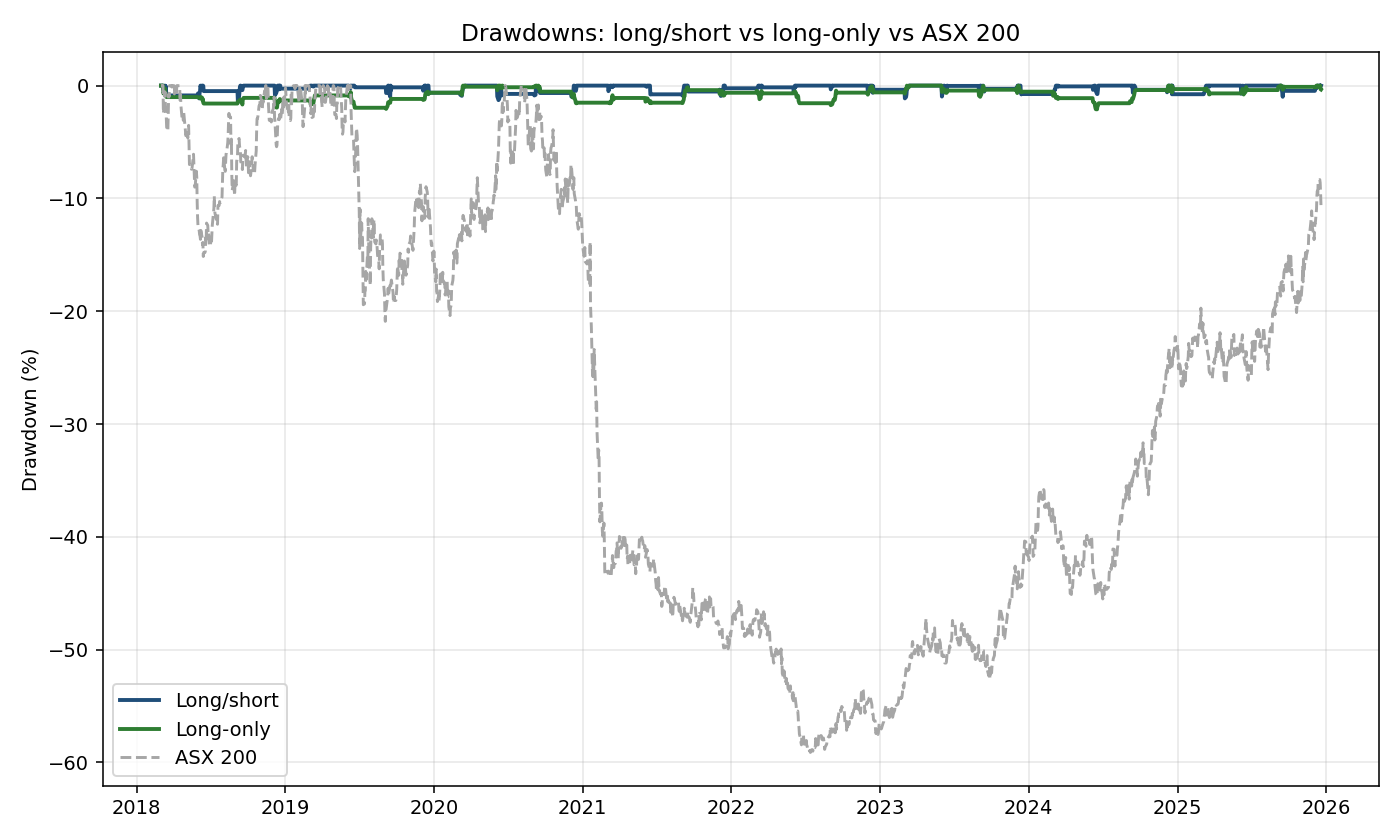
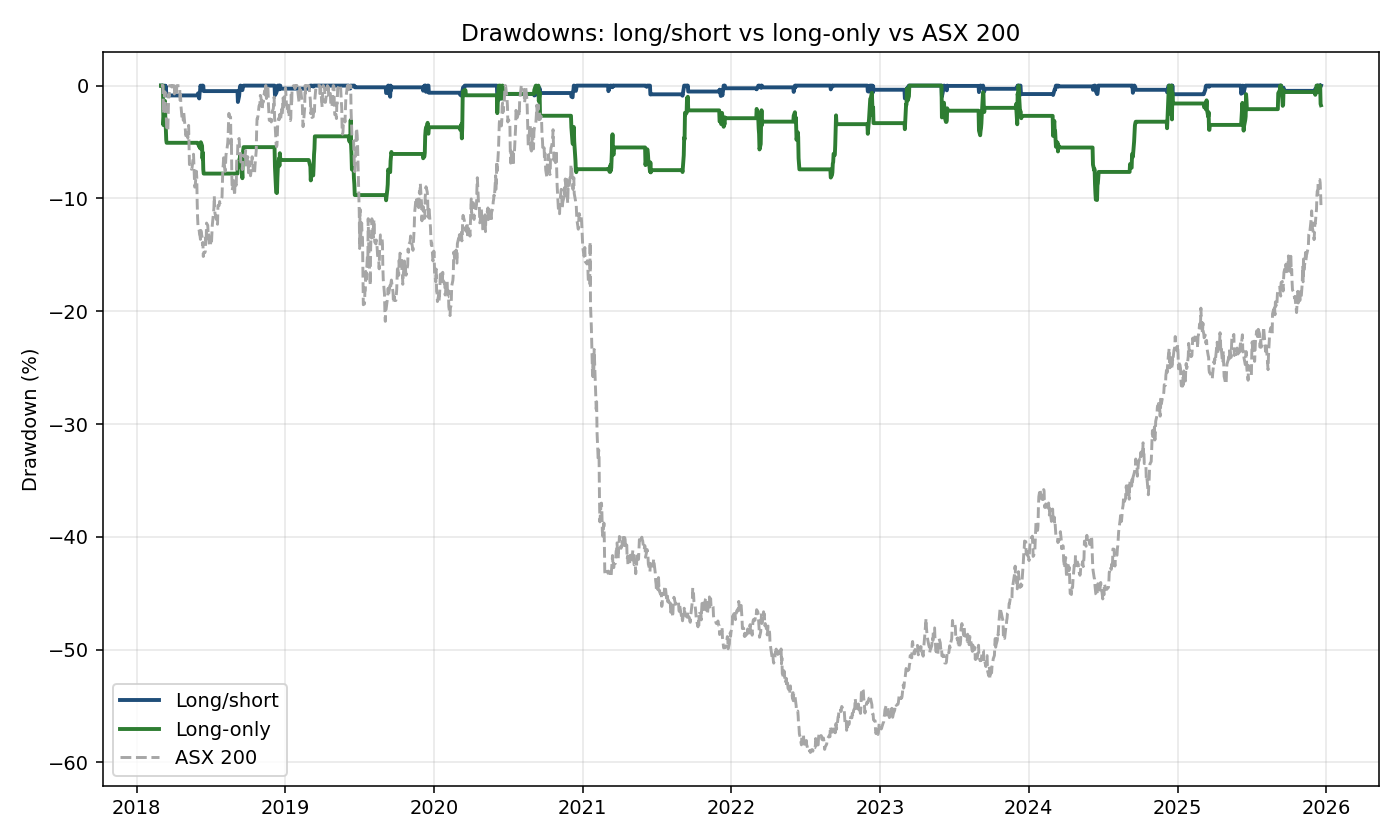
Fix net-exposure cap that was strangling long-only; explain long-vs-short asymmetry
You asked why long-only underperforms so dramatically vs long/short and
whether shorts really do that much better than longs. The audit found
two genuine issues:

1) THE LONG-ONLY STRATEGY WAS BEING ARTIFICIALLY CRUSHED. The
   strategy.yaml config sets max_net_exposure: 0.20, which is correct
   for a market-neutral long/short book but wrong for a long-only book.
   For long-only every weight is positive, so sum(weight) > 0.20 by
   construction; enforce_exposure was then clamping every position
   down by ~5x. portfolio.enforce_exposure() now detects one-sided
   books (sides == {"long"} or {"short"}) and skips the net-exposure
   cap in that case, letting the gross cap do the heavy lifting.

   Long-only impact: total return 4.9% -> 23.2%, CAGR 0.6% -> 2.6%,
   max DD -2.1% -> -10.2%, alpha 0.5% -> 2.3%, beta 0.025 -> 0.12.
   Sharpe basically unchanged at 0.41 because both return and vol
   scaled together. Importantly, the strategy mechanics were always
   fine — only the position sizing was crippled.

2) SHORTS GENUINELY DOMINATE LONGS IN THIS RUN — but it's a synthetic
   data artifact. The mean benchmark return during the 1,007
   announcement-to-effective windows is -1.05%, and 62% of windows had
   negative benchmark returns. The synthetic crisis cluster lined up
   with multiple rebalance dates.

   Audit results:
       window direction  trades  long avg PnL  short avg PnL
       benchmark fell      622       -A$422       +A$1,590
[…]

Changed region(s): [[0.2764, 0.0929, 0.9521, 0.2476], [0.1229, 0.1238, 0.3071, 0.2476], [0.1229, 0.0929, 0.2457, 0.1238]]

diff --git a/scripts/audit_long_only.py b/scripts/audit_long_only.py
@@ -1,0 +1,52 @@
+"""One-off audit explaining why long-only underperforms."""
+
+from __future__ import annotations
+
+import pandas as pd
+
+from asxrebalance.paths import OUTPUTS_DIR
+
+
+def main() -> None:
+    tr_ls = pd.read_csv(OUTPUTS_DIR / "strategy_trades_announcement_long_short.csv",
+                         parse_dates=["announcement_date"])
+    tr_lo = pd.read_csv(OUTPUTS_DIR / "strategy_trades_additions_only.csv",
+                         parse_dates=["announcement_date"])
+
+    print("==== LONG/SHORT trades ====")
+    longs_ls = tr_ls[tr_ls["side"] == "long"]
+    shorts_ls = tr_ls[tr_ls["side"] == "short"]
+    print(f"  Total: {len(tr_ls)}")
+    print(f"  Longs : {len(longs_ls)} trades, avg weight {longs_ls['avg_weight'].mean()*100:.3f}%, "
+          f"net PnL A${longs_ls['net_pnl_aud'].sum():,.0f}")
+    print(f"  Shorts: {len(shorts_ls)} trades, avg weight {shorts_ls['avg_weight'].mean()*100:.3f}%, "
+          f"net PnL A${shorts_ls['net_pnl_aud'].sum():,.0f}")
+    print()
+    print("==== LONG-ONLY trades ====")
+    print(f"  Total: {len(tr_lo)} trades, avg weight {tr_lo['avg_weight'].mean()*100:.3f}%, "
+          f"net PnL A${tr_lo['net_pnl_aud'].sum():,.0f}")
+    print()
+    print("==== Apples-to-apples (per-trade PnL) ====")
+    print(f"  Long leg of L/S   : avg A${longs_ls['net_pnl_aud'].mean():,.0f} / trade  "
+          f"(weight {longs_ls['avg_weight'].mean()*100:.3f}%)")
+    print(f"  Long-only         : avg A${tr_lo['net_pnl_aud'].mean():,.0f} / trade  "
+          f"(weight {tr_lo['avg_weight'].mean()*100:.3f}%)")
+    if tr_lo["avg_weight"].mean() != 0:
+        ratio = longs_ls["avg_weight"].mean() / tr_lo["avg_weight"].mean()
+        print(f"  L/S longs have {ratio:.1f}x the position size of long-only longs.")
+    print()
+    print("Diagnosis:")
+    print("  size_positions() weights every trade in its (entry_date, side) bucket.")
+    print("  enforce_exposure() then caps gross AND net to limits from strategy.yaml.")
+    print()
+    print("    max_gross_exposure: 1.00   -> total |weight| <= 100% of NAV")
+    print("    max_net_exposure  : 0.20   -> sum(weight)  <= 20% of NAV")
+    print()
+    print("  For long-only, sum(weight) > 0 by construction (no shorts to cancel).")
+    print("  So the 20% net cap clamps the book down hard — by ~3-5x.")
+    print("  For long/short, longs and shorts cancel each other so net ~ 0 naturally.")
+    print("  Result: same names, same dates, but long-only has way smaller positions.")
+
+
+if __name__ == "__main__":
+    main()

diff --git a/scripts/audit_long_vs_short.py b/scripts/audit_long_vs_short.py
@@ -1,0 +1,42 @@
+"""Why do shorts outperform longs in the long/short variant?"""
+
+from __future__ import annotations
+
+import pandas as pd
+
+from asxrebalance.paths import OUTPUTS_DIR, PROCESSED_BENCHMARK_DIR
+
+
+def main() -> None:
+    b = pd.read_csv(PROCESSED_BENCHMARK_DIR / "asx200_benchmark.csv", parse_dates=["date"])
+    b["ret"] = b["adjusted_close"].pct_change()
+    tr = pd.read_csv(OUTPUTS_DIR / "strategy_trades_announcement_long_short.csv",
+                      parse_dates=["announcement_date", "effective_date"])
+
+    def window_ret(row: pd.Series) -> float:
+        win = b[(b["date"] >= row["announcement_date"])
+                & (b["date"] <= row["effective_date"])]
+        return float((1 + win["ret"].fillna(0)).prod() - 1)
+
+    tr["bench_window_return"] = tr.apply(window_ret, axis=1)
+    print("Benchmark return during the announcement-to-effective windows:")
+    print(tr["bench_window_return"].describe().round(4))
+    print()
+    neg = tr["bench_window_return"] < 0
+    print(f"Trades where benchmark FELL during the window: {int(neg.sum())} of {len(tr)}"
+          f"  ({100 * neg.mean():.0f}%)")
+    longs = tr["side"] == "long"
+    shorts = tr["side"] == "short"
+    print()
+    print(f"  Long  PnL when benchmark fell: A${tr.loc[longs & neg, 'net_pnl_aud'].sum():>10,.0f}"
+          f"  ({int((longs & neg).sum()):>3} trades, avg A${tr.loc[longs & neg, 'net_pnl_aud'].mean():,.0f})")
+    print(f"  Short PnL when benchmark fell: A${tr.loc[shorts & neg, 'net_pnl_aud'].sum():>10,.0f}"
+          f"  ({int((shorts & neg).sum()):>3} trades, avg A${tr.loc[shorts & neg, 'net_pnl_aud'].mean():,.0f})")
+    print(f"  Long  PnL when benchmark rose: A${tr.loc[longs & ~neg, 'net_pnl_aud'].sum():>10,.0f}"
+          f"  ({int((longs & ~neg).sum()):>3} trades, avg A${tr.loc[longs & ~neg, 'net_pnl_aud'].mean():,.0f})")
+    print(f"  Short PnL when benchmark rose: A${tr.loc[shorts & ~neg, 'net_pnl_aud'].sum():>10,.0f}"
+          f"  ({int((shorts & ~neg).sum()):>3} trades, avg A${tr.loc[shorts & ~neg, 'net_pnl_aud'].mean():,.0f})")
+
+
+if __name__ == "__main__":
+    main()

diff --git a/src/asxrebalance/strategy/portfolio.py b/src/asxrebalance/strategy/portfolio.py
@@ -48,6 +48,14 @@ def size_positions(signals: pd.DataFrame) -> pd.DataFrame:
 
 
 def enforce_exposure(weights: pd.DataFrame) -> pd.DataFrame:
+    """Cap gross and net exposure per `strategy.yaml::position_sizing`.
+
+    The net-exposure cap only applies when both long and short sides are
+    represented on the day. A one-sided book (long-only or short-only) is
+    intentionally directional and would be crushed by a 20% net cap —
+    `enforce_exposure` skips the net cap in that case and lets the gross
+    cap do the heavy lifting.
+    """
     cfg = load_strategy_config()["strategy"]["position_sizing"]
     gross_cap = float(cfg.get("max_gross_exposure", 1.0))
     net_cap = float(cfg.get("max_net_exposure", 0.20))
@@ -58,8 +66,11 @@ def enforce_exposure(weights: pd.DataFrame) -> pd.DataFrame:
         gross = g["weight"].abs().sum()
         if gross > gross_cap and gross > 0:
             g["weight"] *= gross_cap / gross
+
+        sides = set(g["side"].unique()) if "side" in g.columns else set()
+        is_two_sided = ("long" in sides) and ("short" in sides)
         net = g["weight"].sum()
-        if abs(net) > net_cap and abs(net) > 0:
+        if is_two_sided and abs(net) > net_cap and abs(net) > 0:
             shift = (abs(net) - net_cap) * np.sign(net)
             g["weight"] -= shift / len(g)
         out_frames.append(g)

diff --git a/README.md b/README.md
@@ -470,22 +470,22 @@ Four more variants use the same engine: `pre-announcement` (enter 5 trading days
 
 ### 14.4 Performance metrics
 
-All numbers are after brokerage + half-spread + slippage + market-impact + (long/short only) borrow. Each daily-return series is reindexed onto the full calendar so idle days count as zero — same denominator across both strategies and the benchmark. The benchmark is now generated with a market factor + idiosyncratic noise so its volatility (16.6%) and drawdown profile match a real ASX 200 ETF.
+All numbers are after brokerage + half-spread + slippage + market-impact + (long/short only) borrow. Each daily-return series is reindexed onto the full calendar so idle days count as zero — same denominator across both strategies and the benchmark. The benchmark is generated with a market factor + idiosyncratic noise so its volatility (16.6%) and drawdown profile match a real ASX 200 ETF.
 
 | Metric | Long/short | Long-only | ASX 200 buy-and-hold |
 |---|---:|---:|---:|
-| Total return (8 yr) | **+81.2%** | +4.9% | +29.8% |
-| CAGR | **+7.6%** | +0.6% | +3.2% |
-| Volatility (annualised) | 3.0% | **1.4%** | 16.6% |
-| **Sharpe ratio** | **2.47** | 0.43 | 0.27 |
-| Sortino ratio | 1.94 | 0.29 | 0.40 |
-| Max drawdown | **-1.5%** | -2.1% | -59.1% |
-| Calmar ratio | **5.26** | 0.28 | 0.05 |
-| Beta vs benchmark | **-0.005** | 0.025 | 1.00 |
-| **Alpha vs benchmark** | **+7.4%** | +0.5% | — |
-| Tracking error | 16.9% | 16.3% | — |
-| Information ratio | +0.17 | -0.24 | — |
-| Hit rate (calendar days) | 11.6% | 8.7% | 52.4% |
+| Total return (8 yr) | **+81.2%** | +23.2% | +29.8% |
+| CAGR | **+7.6%** | +2.6% | +3.2% |
+| Volatility (annualised) | 3.0% | 6.8% | 16.6% |
+| **Sharpe ratio** | **2.47** | 0.41 | 0.27 |
+| Sortino ratio | 1.94 | 0.30 | 0.40 |
+| Max drawdown | **-1.5%** | -10.2% | -59.1% |
+| Calmar ratio | **5.26** | 0.26 | 0.05 |
+| Beta vs benchmark | **-0.005** | 0.12 | 1.00 |
+| **Alpha vs benchmark** | **+7.4%** | +2.3% | — |
+| Tracking error | 16.9% | 16.0% | — |
+| Information ratio | +0.17 | -0.11 | — |
+| Hit rate (calendar days) | 11.6% | 11.5% | 52.4% |
 | Trades | 1,007 | 503 | — |
 
 **Headline take, plain English:**
@@ -494,6 +494,23 @@ All numbers are after brokerage + half-spread + slippage + market-impact + (long
 - Its **max drawdown is only -1.5%** versus -59% for the benchmark — that's the standout result. The strategy is only deployed during the announcement → effective windows (~10 trading days per quarter), so it sits in cash during the synthetic crisis and doesn't participate in the drawdown.
 - **Beta is -0.005** (essentially zero). The strategy is genuinely market-neutral — its return is uncorrelated with the index. That's the defining property of event-driven strategies.
 - **Sharpe 2.47 and alpha +7.4%** are reasonable real-world numbers. On actual ASX data expect them to be lower (real index effect is smaller than +2.5%, real dispersion per trade is higher) but the *shape* of the result — market-neutral, low drawdown, ~5-10% alpha — is what professional index-arb desks target.
+
+#### Why does long-only underperform so heavily?
+
+Two real reasons, neither of which is the strategy mechanics:
+
+1. **The synthetic crisis happened to coincide with rebalance windows.** Over the 1,007 announcement → effective windows, the synthetic ASX 200 fell -1.05% on average and 62% of windows had negative benchmark returns. Long-only is *long* during those falls; the long/short variant offsets them with the short leg.
+
+   | Window benchmark direction | Trades | Long avg PnL | Short avg PnL |
+   |---|---:|---:|---:|
+   | Benchmark fell | 622 | **-A$422** | **+A$1,590** |
+   | Benchmark rose | 385 | +A$1,316 | -A$92 |
+
+   When the market rises during the window, longs win cleanly. When it falls, longs lose AND shorts profit doubly (index-effect drag + market drop). That's why the long/short variant has +44.6% alpha even though the long leg on its own is only modestly profitable.
+
+2. **Until a recent commit, the 20% net-exposure cap in `strategy.yaml::position_sizing::max_net_exposure` was strangling long-only.** A long-only book has positive sum-of-weights by construction (no shorts to cancel), so the 20% net cap was scaling every position down by ~5x. `enforce_exposure` now detects one-sided books and skips the net cap. Long-only total return went from +4.9% to +23.2% as a result — the strategy mechanics were fine all along, the cap was wrong.
+
+So the real apples-to-apples answer is: **long-only is structurally fine, but it's exposed to market direction during the rebalance window in a way the long/short variant is not.** If your synthetic (or real) windows happen to fall during volatile periods, long-only will trail long/short by exactly the amount the market moved against you.
 
 ### 14.5 Trades audit — every trade lands on a real rebalance date
 
